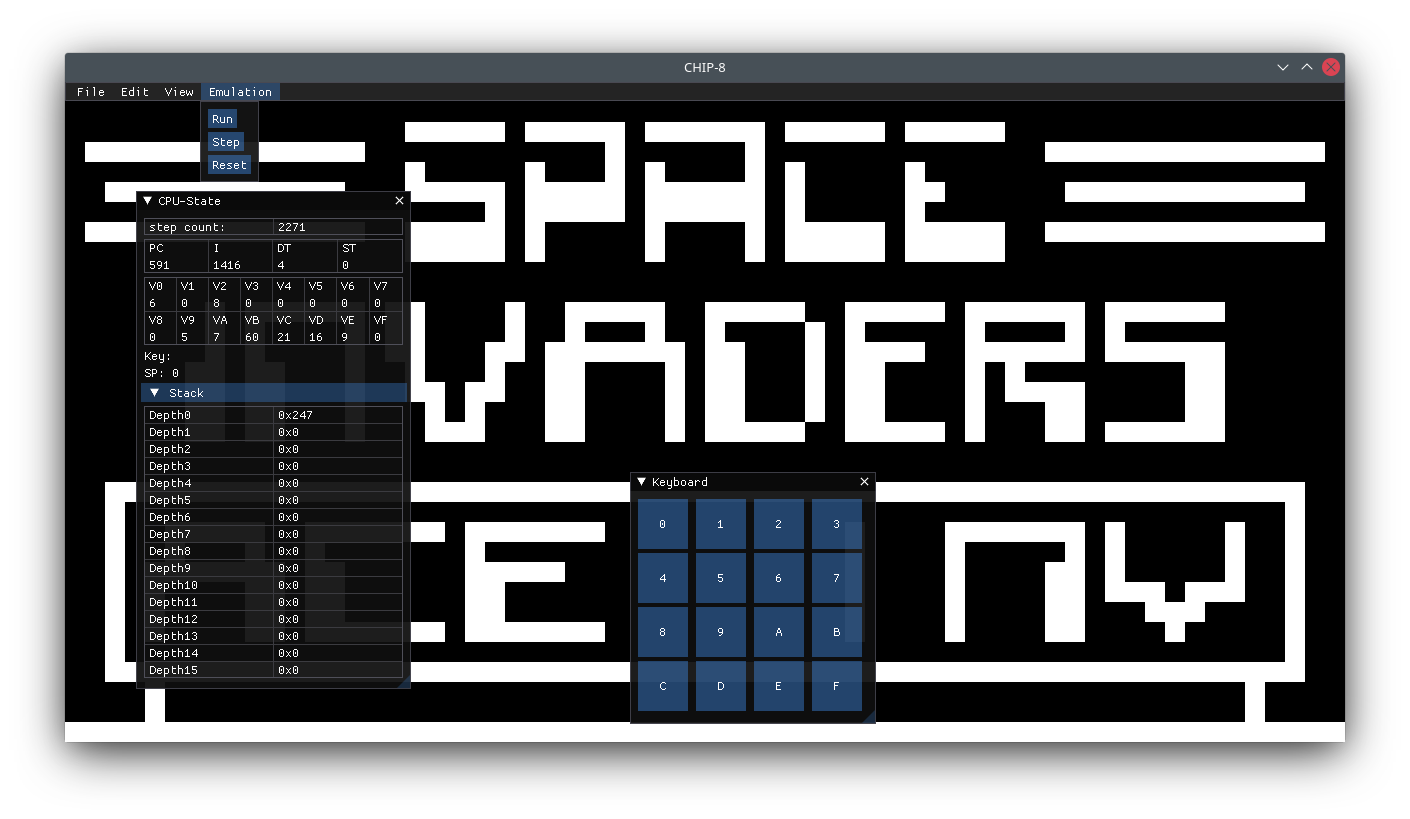
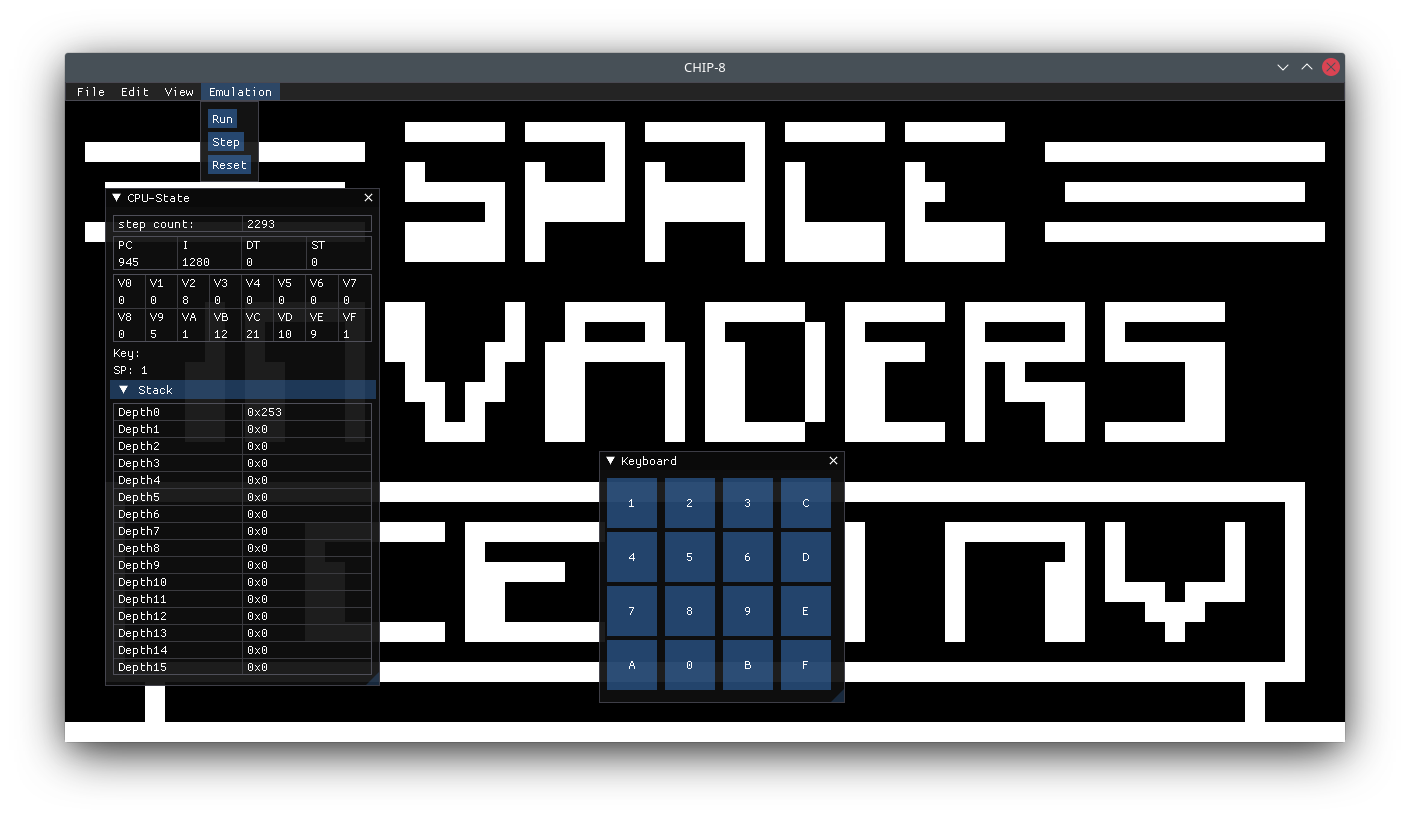
fix keyboard

Changed region(s): [[0.0624, 0.2137, 0.3121, 0.8547], [0.4057, 0.5495, 0.6241, 0.8852]]

diff --git a/src/gfx/renderer.cpp b/src/gfx/renderer.cpp
@@ -199,15 +199,64 @@ static void cpu_state(Computer &computer) {
 static void virtual_keyboard(Computer &computer) {
     if (ImGui::Begin("Keyboard", &show_keyboard)) {
         char text[2];
-        for (int i = 1; i <= 16; i++) {
-            std::sprintf(text, "%X", i-1);
+        for (int i = 1; i <= 3; i++) {
+            std::sprintf(text, "%X", i);
             if (ImGui::Button(text, ImVec2(50,50)) || ImGui::IsItemActive())
-                computer.keyboard[i-1] = 1;
+                computer.keyboard[i] = 1;
             else
-                computer.keyboard[i-1] = 0;
-            if (i % 4)
-                ImGui::SameLine();
+                computer.keyboard[i] = 0;
+            ImGui::SameLine();
         }
+        if (ImGui::Button("C", ImVec2(50,50)) || ImGui::IsItemActive())
+                computer.keyboard[0xC] = 1;
+        else
+            computer.keyboard[0xC] = 0;
+
+        for (int i = 4; i <= 6; i++) {
+            std::sprintf(text, "%X", i);
+            if (ImGui::Button(text, ImVec2(50,50)) || ImGui::IsItemActive())
+                computer.keyboard[i] = 1;
+            else
+                computer.keyboard[i] = 0;
+            ImGui::SameLine();
+        }
+        if (ImGui::Button("D", ImVec2(50,50)) || ImGui::IsItemActive())
+                computer.keyboard[0xD] = 1;
+        else
+            computer.keyboard[0xD] = 0;
+        
+        for (int i = 7; i <= 9; i++) {
+            std::sprintf(text, "%X", i);
+            if (ImGui::Button(text, ImVec2(50,50)) || ImGui::IsItemActive())
+                computer.keyboard[i] = 1;
+            else
+                computer.keyboard[i] = 0;
+            ImGui::SameLine();
+        }
+        if (ImGui::Button("E", ImVec2(50,50)) || ImGui::IsItemActive())
+                computer.keyboard[0xE] = 1;
+        else
+            computer.keyboard[0xE] = 0;
+        
+        if (ImGui::Button("A", ImVec2(50,50)) || ImGui::IsItemActive())
+                computer.keyboard[0xA] = 1;
+        else
+            computer.keyboard[0xA] = 0;
+        ImGui::SameLine();
+        if (ImGui::Button("0", ImVec2(50,50)) || ImGui::IsItemActive())
+                computer.keyboard[0x0] = 1;
+        else
+            computer.keyboard[0x0] = 0;
+        ImGui::SameLine();
+        if (ImGui::Button("B", ImVec2(50,50)) || ImGui::IsItemActive())
+                computer.keyboard[0xB] = 1;
+        else
+            computer.keyboard[0xB] = 0;
+        ImGui::SameLine();
+        if (ImGui::Button("F", ImVec2(50,50)) || ImGui::IsItemActive())
+                computer.keyboard[0xF] = 1;
+        else
+            computer.keyboard[0xF] = 0;
     }
     ImGui::End();
 }

diff --git a/README.md b/README.md
@@ -5,7 +5,7 @@ chip-8 interpreter written in c++ using GLFW, Opengl and ImGui.
 ![ibm logo](screenshots/1.png)
 ![space invaders](screenshots/2.png)
 
-## References
+## Resources
 https://tobiasvl.github.io/blog/write-a-chip-8-emulator/
 
 http://devernay.free.fr/hacks/chip8/C8TECH10.HTM
